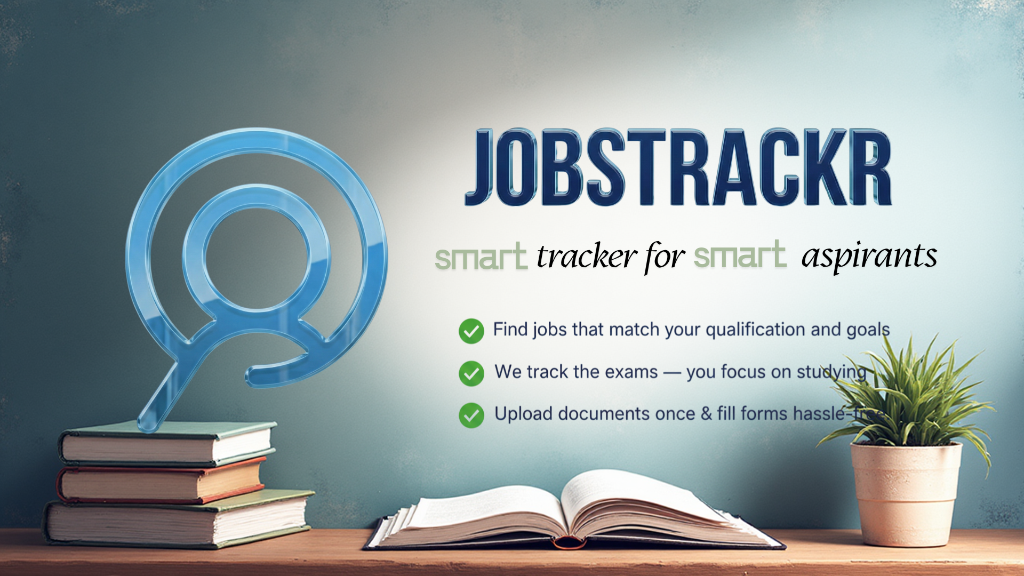
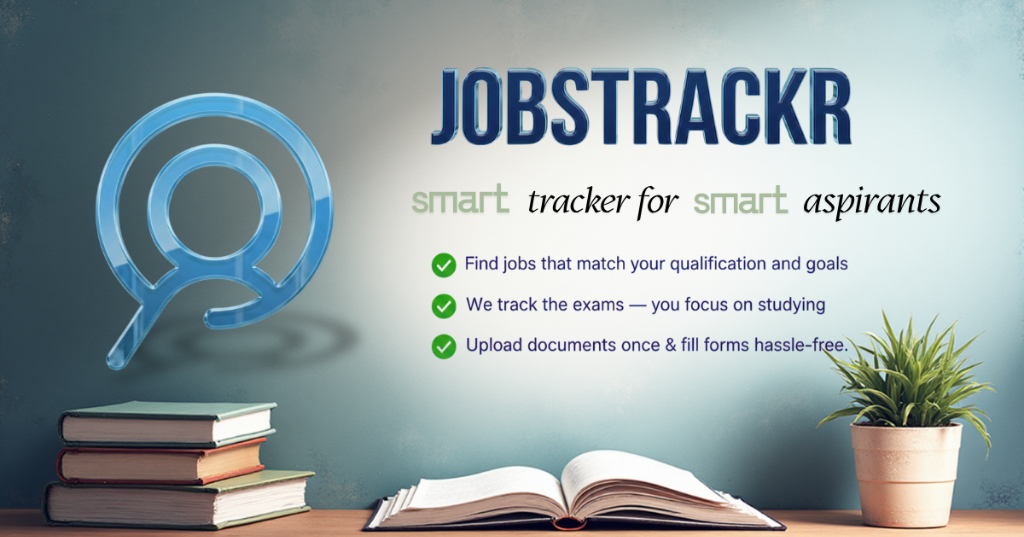
feat: Replace og-image with new branded version (1200x630)

diff --git a/index.html b/index.html
@@ -37,8 +37,8 @@
   <meta property="og:image" content="https://jobstrackr.in/og-image.png" />
   <meta property="og:image:secure_url" content="https://jobstrackr.in/og-image.png" />
   <meta property="og:image:type" content="image/png" />
-  <meta property="og:image:width" content="1024" />
-  <meta property="og:image:height" content="576" />
+  <meta property="og:image:width" content="1200" />
+  <meta property="og:image:height" content="630" />
   <meta property="og:image:alt" content="JobsTrackr - Smart App for Smart Aspirants" />
 
   <!-- Twitter Card -->
